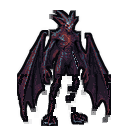
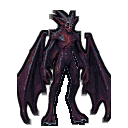
feat(art): extend step-0 style to all demon types

diff --git a/game.js b/game.js
@@ -2492,24 +2492,24 @@ function getCombatDistanceForMonster(monster) {
 }
 
 const DEMON_TYPES = {
-    Goliath: resolveAssetUrl('images/monsters/goliath_giant.png'),
-    Fear: resolveAssetUrl('images/monsters/fear_demon.png?v=3.1'),
-    Condemnation: resolveAssetUrl('images/monsters/condemnation_demon.png?v=3.1'),
-    Unbelief: resolveAssetUrl('images/monsters/unbelief_demon.png'),
-    Ignorance: resolveAssetUrl('images/monsters/ignorance_spirit.png'),
-    Depression: resolveAssetUrl('images/monsters/depression_spirit.png'),
-    Strife: resolveAssetUrl('images/monsters/strife_spirit.png'),
-    Confusion: resolveAssetUrl('images/monsters/confusion_spirit.png'),
-    Infirmity: resolveAssetUrl('images/monsters/infirmity_spirit.png'),
-    Doubt: resolveAssetUrl('images/monsters/doubt_spirit.png?v=3.1'),
-    Deception: resolveAssetUrl('images/monsters/DECEPTION_SPIRIT1.png'),
-    Despair: resolveAssetUrl('images/monsters/DISCOURAGEMENT.png'),
-    Pride: resolveAssetUrl('images/monsters/PRIDE.png'),
-    Temptation: resolveAssetUrl('images/monsters/JEZEBEL.png'),
-    Poverty: resolveAssetUrl('images/monsters/DEMON-OF-POVERTY.png'),
-    Shame: resolveAssetUrl('images/monsters/SHAME-ACCUSATION.png'),
-    Blindness: resolveAssetUrl('images/monsters/SPIRITUALBLINDNESS.png'),
-    Swarm: resolveAssetUrl('images/monsters/DEMON-SWARM.png')
+    Goliath: resolveAssetUrl('images/monsters/goliath_giant.png?v=3.3'),
+    Fear: resolveAssetUrl('images/monsters/fear_demon.png?v=3.3'),
+    Condemnation: resolveAssetUrl('images/monsters/condemnation_demon.png?v=3.3'),
+    Unbelief: resolveAssetUrl('images/monsters/unbelief_demon.png?v=3.3'),
+    Ignorance: resolveAssetUrl('images/monsters/ignorance_spirit.png?v=3.3'),
+    Depression: resolveAssetUrl('images/monsters/depression_spirit.png?v=3.3'),
+    Strife: resolveAssetUrl('images/monsters/strife_spirit.png?v=3.3'),
+    Confusion: resolveAssetUrl('images/monsters/confusion_spirit.png?v=3.3'),
+    Infirmity: resolveAssetUrl('images/monsters/infirmity_spirit.png?v=3.3'),
+    Doubt: resolveAssetUrl('images/monsters/doubt_spirit.png?v=3.3'),
+    Deception: resolveAssetUrl('images/monsters/DECEPTION_SPIRIT1.png?v=3.3'),
+    Despair: resolveAssetUrl('images/monsters/DISCOURAGEMENT.png?v=3.3'),
+    Pride: resolveAssetUrl('images/monsters/PRIDE.png?v=3.3'),
+    Temptation: resolveAssetUrl('images/monsters/JEZEBEL.png?v=3.3'),
+    Poverty: resolveAssetUrl('images/monsters/DEMON-OF-POVERTY.png?v=3.3'),
+    Shame: resolveAssetUrl('images/monsters/SHAME-ACCUSATION.png?v=3.3'),
+    Blindness: resolveAssetUrl('images/monsters/SPIRITUALBLINDNESS.png?v=3.3'),
+    Swarm: resolveAssetUrl('images/monsters/DEMON-SWARM.png?v=3.3')
 };
 
 async function ensureDemonImagesLoaded() {

diff --git a/index.html b/index.html
@@ -1989,7 +1989,7 @@
       }
     }
   </script>
-  <script src="game.js?v=3.28"></script>
+  <script src="game.js?v=3.30"></script>
   <script>
     // Register service worker for PWA offline support
     if ('serviceWorker' in navigator) {

diff --git a/docs/art/step0-art-notes.md b/docs/art/step0-art-notes.md
@@ -1,7 +1,13 @@
-# Step 0 art pass — player, Fear, Doubt, Condemnation
+# Step 0 art pass — player + all 18 demon types
 
-Reference sheet: [`step0-cast-reference.png`](step0-cast-reference.png)  
-Silhouette test: `output/step0/art/silhouettes-64.png` (generated, not required at runtime).
+Reference sheets:
+
+- Focus cast (player / Fear / Doubt / Condemnation):
+  [`step0-cast-reference.png`](step0-cast-reference.png)
+- Full demon cast (all 18):
+  [`demon-cast-reference.png`](demon-cast-reference.png)
+- Silhouette tests: `output/step0/art/silhouettes-64.png` and
+  `output/step0/art/demon-silhouettes-64.png`.
 
 ## Scope
 
@@ -9,10 +15,11 @@ Step 0 is a drop-in art pass only. Sprite **destination** sizes are unchanged, s
 collision and spawning are untouched:
 
 - Player: 96×96 sprite sheet, 2×2 frames of 48×48 (`PLAYER_WIDTH/HEIGHT = 48`).
-- Fear / Doubt / Condemnation: 128×128 transparent PNGs, drawn at the existing
+- All 18 demon types: 128×128 transparent PNGs, drawn at the existing
   `monster.width/height` (48 by default, scaled by `MonsterManager`).
+- Goliath: 192×192 source (drawn at the boss size), same palette/outline.
 
-The renderer draws the 128 px demon sources down to 48 px at runtime. This keeps
+The renderer draws the sources down to the gameplay size at runtime. This keeps
 the source art crisp at device pixel ratios of 2 without changing gameplay sizes.
 
 ## Style targets
@@ -24,9 +31,11 @@ the source art crisp at device pixel ratios of 2 without changing gameplay sizes
 - Silhouette must read at 64 px; 32 px is a stress test.
 - Colour identity:
   - **Player** — warm blue-grey tunic with gold cross/belt.
-  - **Fear** — cold violet / blood red, wide wings.
-  - **Doubt** — desaturated blue-grey, tall horns.
-  - **Condemnation** — iron / ochre, heavy bulk and horns.
+  - **Fear / Condemnation / Pride / Despair** — cold violet, blood red or iron.
+  - **Doubt / Blindness** — desaturated blue-grey.
+  - **Depression / Temptation** — near-black robes.
+  - **Swarm / Shame / Infirmity** — red or ember accents.
+  - **Goliath** — bronze/iron armour, human silhouette.
 
 ## Palette
 
@@ -52,19 +61,40 @@ the source art crisp at device pixel ratios of 2 without changing gameplay sizes
 ## Source and processing
 
 The demon sources are the existing AI-generated concept candidates in
-`output/imagegen/demon-reference-candidates-gpt-image-2/`:
+`output/imagegen/demon-reference-candidates-gpt-image-2/`. One candidate per type
+was chosen by 64 px silhouette readability:
 
-- Fear: `fear-a.png`
-- Doubt: `doubt-a.png`
-- Condemnation: `condemnation-b.png`
+| Type | Candidate | Output file |
+|---|---|---|
+| Fear | `fear-a.png` | `images/monsters/fear_demon.png` |
+| Doubt | `doubt-a.png` | `images/monsters/doubt_spirit.png` |
+| Condemnation | `condemnation-b.png` | `images/monsters/condemnation_demon.png` |
+| Unbelief | `unbelief-a.png` | `images/monsters/unbelief_demon.png` |
+| Ignorance | `ignorance-a.png` | `images/monsters/ignorance_spirit.png` |
+| Depression | `depression-a.png` | `images/monsters/depression_spirit.png` |
+| Strife | `strife-a.png` | `images/monsters/strife_spirit.png` |
+| Confusion | `confusion-b.png` | `images/monsters/confusion_spirit.png` |
+| Infirmity | `infirmity-a.png` | `images/monsters/infirmity_spirit.png` |
+| Deception | `deception-a.png` | `images/monsters/DECEPTION_SPIRIT1.png` |
+| Despair | `despair-b.png` | `images/monsters/DISCOURAGEMENT.png` |
+| Pride | `pride-a.png` | `images/monsters/PRIDE.png` |
+| Temptation | `temptation-a.png` | `images/monsters/JEZEBEL.png` |
+| Poverty | `poverty-a.png` | `images/monsters/DEMON-OF-POVERTY.png` |
+| Shame | `shame-a.png` | `images/monsters/SHAME-ACCUSATION.png` |
+| Blindness | `blindness-a.png` | `images/monsters/SPIRITUALBLINDNESS.png` |
+| Swarm | `swarm-a.png` | `images/monsters/DEMON-SWARM.png` |
+| Goliath | `goliath-b.png` | `images/monsters/goliath_giant.png` |
 
 They were processed locally with Pillow:
 
-1. Connected background removal from the studio backdrop (including the soft
-   ground shadow).
-2. Crop to alpha bounds and fit to a 128 px canvas, bottom-aligned.
-3. Colour-boost, then map to the shared 16-colour palette with no dithering.
-4. Add a 2 px shared dark outline from the alpha silhouette.
+1. Connected background removal from the studio backdrop.
+2. Keep the main alpha component (removes detached background islands).
+3. Per-type pale-background stripping for dark characters. The baked studio
+   shadow is kept as a soft grounding shadow; stripping it removed dark legs on
+   several types. Pale characters such as Doubt keep their highlights.
+4. Crop to alpha bounds and fit to a 128 px canvas (Goliath 192), bottom-aligned.
+5. Colour-boost, then map to the shared 16-colour palette with no dithering.
+6. Add a 2 px shared dark outline from the alpha silhouette.
 
 The player sheet keeps the existing gameplay-readable poses and sword, then
 applies the same palette, plus a gold cross and belt accent.
@@ -91,3 +121,5 @@ the effects work if these textures fail to load.
 - Keep `PLAYER_WIDTH/HEIGHT` and `MONSTER_WIDTH/HEIGHT` independent from source
   image dimensions.
 - Do not add Scripture text to generated images.
+- The source candidates are untracked in `output/imagegen/`; back them up if the
+  pass needs to be regenerated.

diff --git a/output/step0/README.md b/output/step0/README.md
@@ -25,13 +25,21 @@ layout remains in logical pixels.
 
 ## Art
 
-- Reference sheet: `../../docs/art/step0-cast-reference.png`
-- Silhouette test (64 px / 32 px): `art/silhouettes-64.png`
+- Focus cast reference: `../../docs/art/step0-cast-reference.png`
+- Full 18-type demon reference: `../../docs/art/demon-cast-reference.png`
+- Full demon contact sheet: `art/demon-cast-contact.png`
+- Silhouette tests (64 px / 32 px): `art/silhouettes-64.png`,
+  `art/demon-silhouettes-64.png`
 - In-game cast: `art/ingame-cast.png`
 - Close-up: `art/ingame-fear-close.png`
+- Full cast lineup (in-game): `art/ingame-cast-lineup.png`
 - Trio attempt: `art/ingame-trio.png`
 
 Notes: `../../docs/art/step0-art-notes.md`.
+
+All 18 demon types now share the Step 0 palette/outline pass; Goliath uses a
+192 px source and the rest use 128 px sources, with destination/collision sizes
+unchanged.
 
 ## Quiz modes
 
@@ -64,6 +72,8 @@ Results recorded during this pass:
 - `node scripts/test-step0-regression.js` — passed. 4 widths at DPR 2,
   5/5 quiz modes generated and answered correctly (ammo reward increased),
   solo mission reached `game` mode.
+- All 18 demon sprites load at 128 px (Goliath 192 px) in-game; the full-cast
+  lineup screenshot is `art/ingame-cast-lineup.png`. No page errors.
 - `npm run test:three-views` — passed; 2D, third-person and first-person modes
   load and switch.
 - `node scripts/test-multiplayer-regression.js` — passed. A 2-player room was
